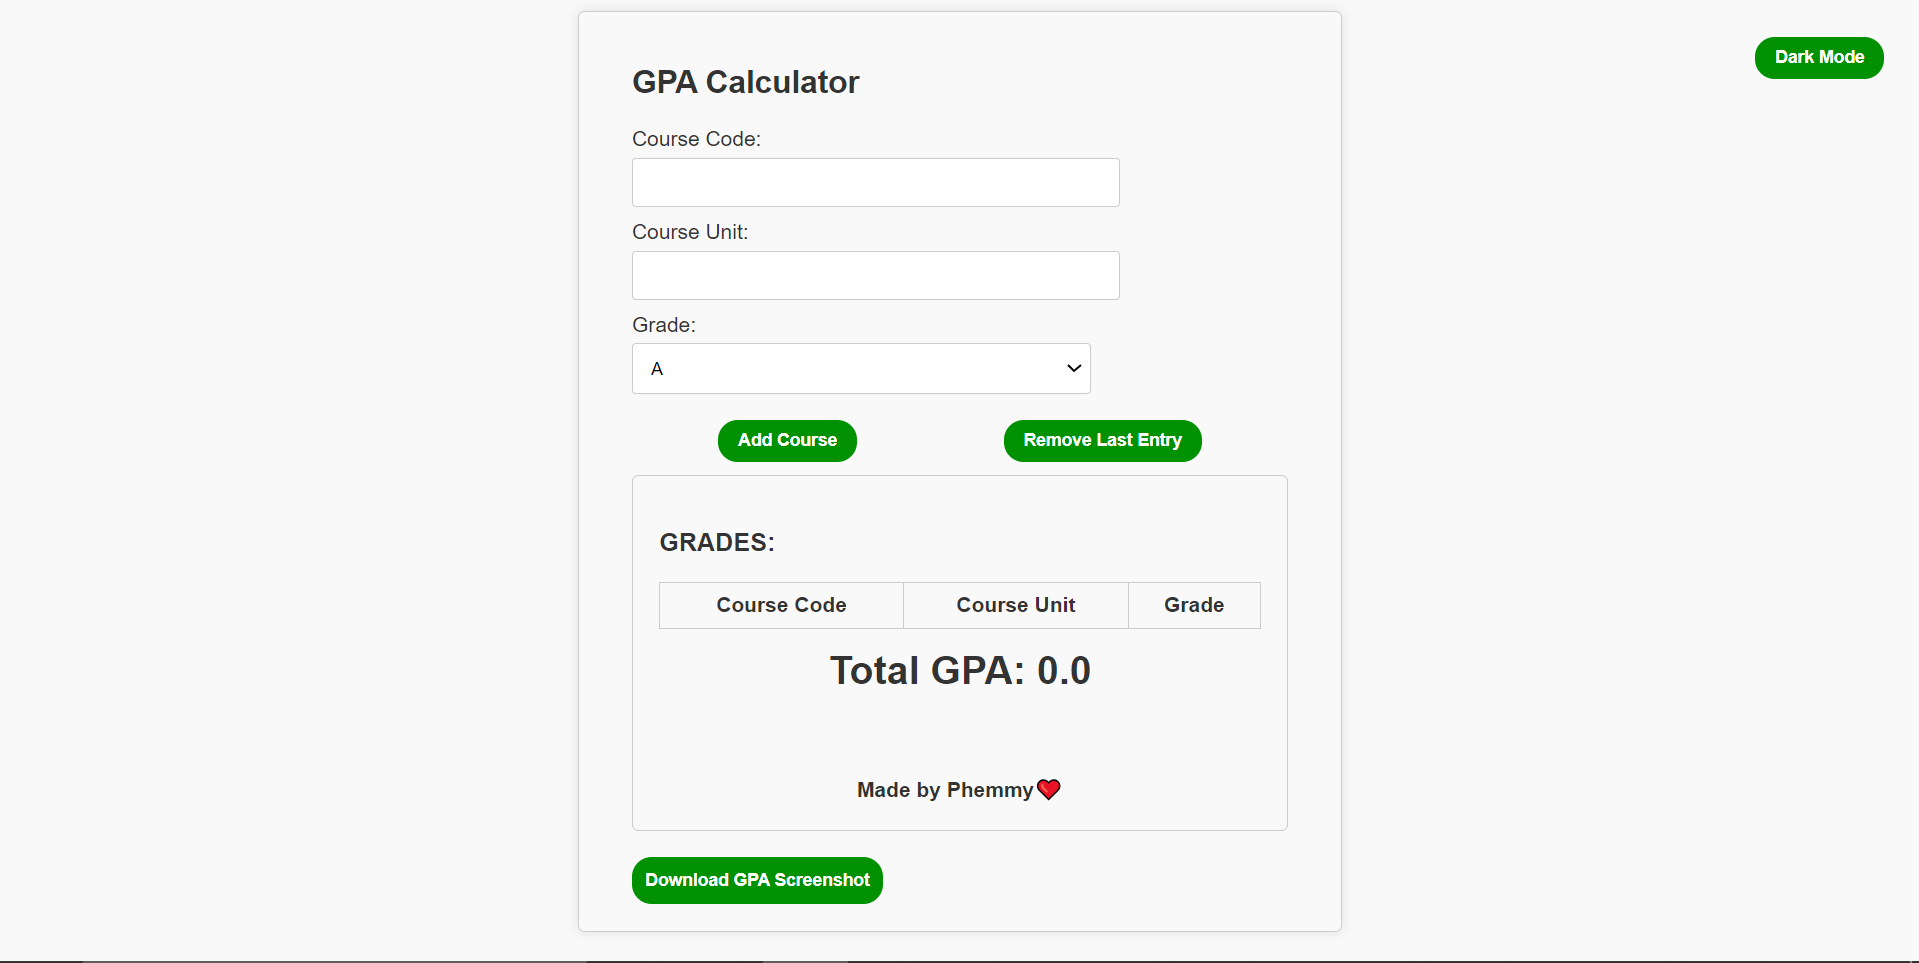
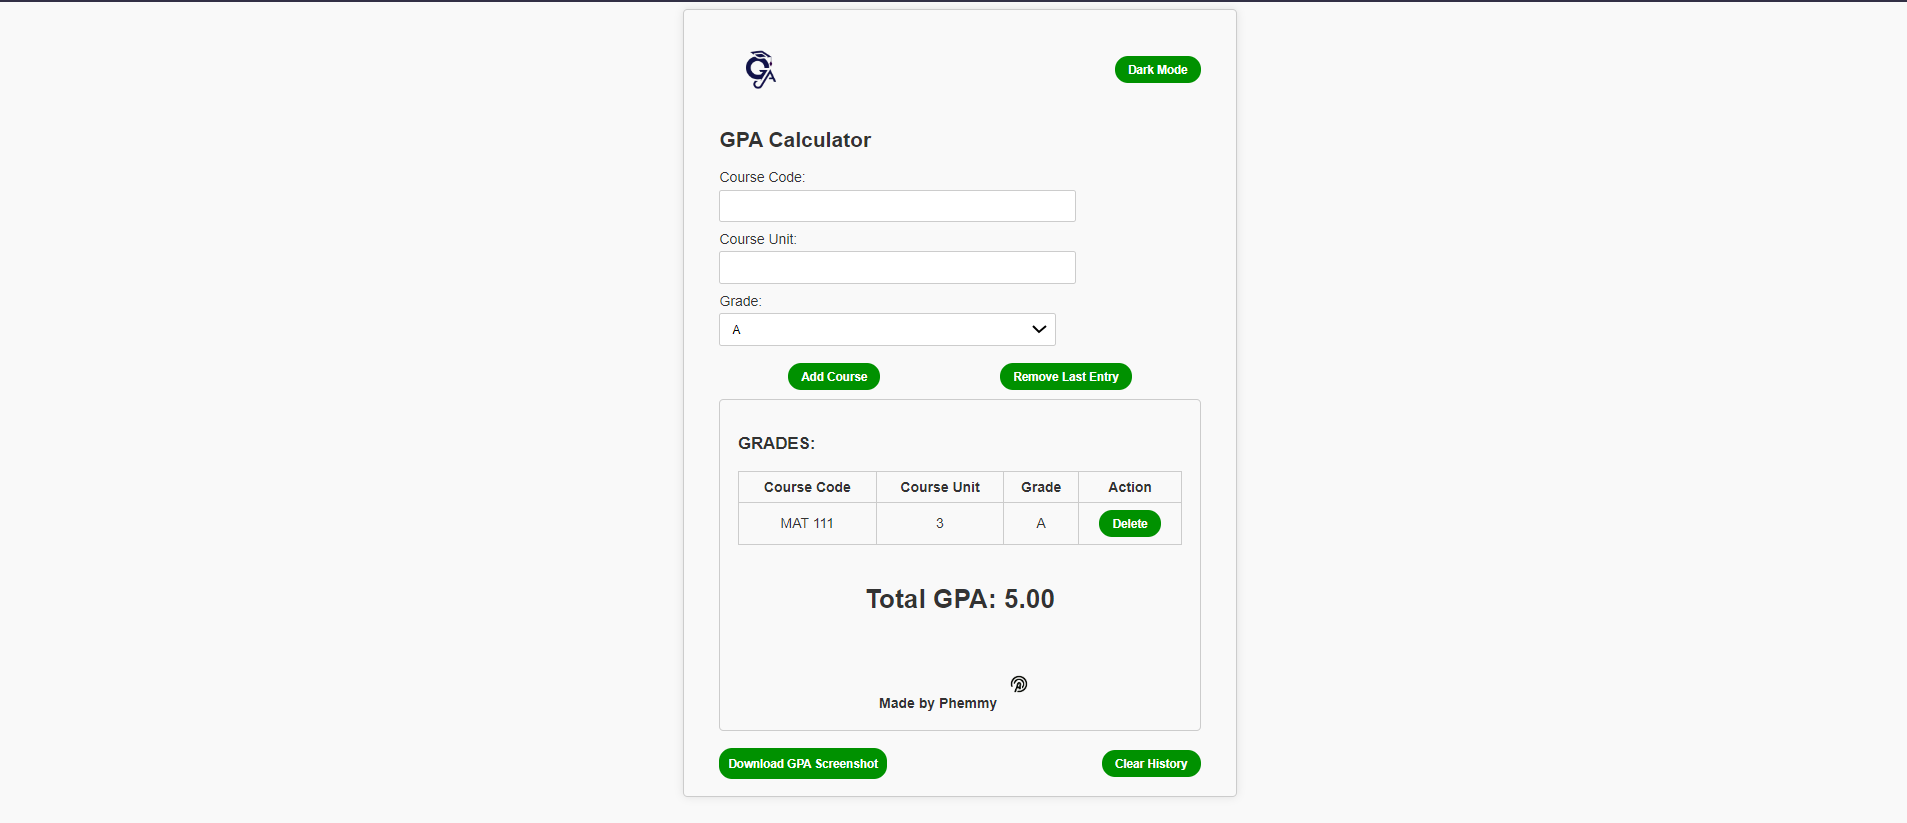
Added LocalStorage and action button

diff --git a/main.js b/main.js
@@ -12,6 +12,8 @@ const gpaResults = document.getElementById("gpa-results");
 const toggleModeButton = document.getElementById("toggle-mode");
 const body = document.body;
 const gpaScoreSummary = document.getElementById("gpaSummary");
+const clearHistoryButton = document.getElementById("clear-history");
+
 
 const grades = [];
 
@@ -39,18 +41,58 @@ removeLastButton.addEventListener("click", () => {
   }
 });
 
+
+function removeCourseAtIndex(index) {
+  if (index >= 0 && index < grades.length) {
+    grades.splice(index, 1);
+    updateGradeTable();
+    calculateGPA();
+  }
+}
+
+// function to convert numeric grade points to letter grades
+function numericToLetterGrade(numericGrade) {
+  // mapping of numeric grades to letter grades here
+  if (numericGrade >= 4.5) {
+    return "A";
+  } else if (numericGrade >= 3.5) {
+    return "B";
+  } else if (numericGrade >= 2.5) {
+    return "C";
+  } else if (numericGrade >= 1.5) {
+    return "D";
+  } else if (numericGrade >= 0.5) {
+    return "E";
+  } else {
+    return "F";
+  }
+}
+
+
 function updateGradeTable() {
   gradeTable.innerHTML = "";
-  grades.forEach((entry) => {
+  grades.forEach((entry, index) => {
     const row = gradeTable.insertRow();
     const cell1 = row.insertCell(0);
     const cell2 = row.insertCell(1);
     const cell3 = row.insertCell(2);
+    const cell4 = row.insertCell(3);
     cell1.textContent = entry.courseCode;
     cell2.textContent = entry.courseUnit;
-    cell3.textContent = entry.grade;
+    
+    // Displaying the letter grade instead of numeric grade
+    cell3.textContent = numericToLetterGrade(entry.grade);
+
+    //A button to create a delete button and add an event listener
+    const deleteButton = document.createElement("button");
+    deleteButton.textContent = "Delete";
+    deleteButton.addEventListener("click", () => {
+      removeCourseAtIndex(index);
+    });
+    cell4.appendChild(deleteButton);
   });
 }
+
 
 function calculateGPA() {
   if (grades.length === 0) {
@@ -68,7 +110,28 @@ function calculateGPA() {
 
   const gpa = (totalPoints / totalUnits).toFixed(2);
   totalGpa.textContent = gpa;
+
+  // Saving the grades to localStorage
+  localStorage.setItem("grades", JSON.stringify(grades));
 }
+
+// Retrieving grades from localStorage on page load
+const savedGrades = JSON.parse(localStorage.getItem("grades"));
+if (savedGrades) {
+  grades.push(...savedGrades); // Push saved grades into the grades array
+  updateGradeTable();
+  calculateGPA();
+}
+
+
+
+clearHistoryButton.addEventListener("click", () => {
+  localStorage.removeItem("grades"); // Clear the saved grades from localStorage
+  grades.length = 0; // Clear the grades array
+  updateGradeTable();
+  calculateGPA();
+});
+
 
 function clearForm() {
   courseCodeInput.value = "";
@@ -77,13 +140,11 @@ function clearForm() {
 }
 
 downloadScreenshotButton.addEventListener("click", () => {
-  // Preload any custom fonts (if applicable)
-  // Example: document.fonts.load('16px YourCustomFont');
 
-  // Use html2canvas with configuration to capture at a higher scale
+
   html2canvas(gpaResults, {
     scale: 4, // Increase the scale factor for better quality
-    useCORS: true, // Enable CORS for external resources (e.g., images from other domains)
+    useCORS: true,
   }).then((canvas) => {
     // Create an "a" element to trigger the download
     const a = document.createElement("a");
@@ -93,7 +154,7 @@ downloadScreenshotButton.addEventListener("click", () => {
   });
 });
 
-// Toggle mode when the button is clicked
+// Toggle button when the button is clicked
 toggleModeButton.addEventListener("click", () => {
   body.classList.toggle("dark-mode");
 
@@ -106,3 +167,5 @@ toggleModeButton.addEventListener("click", () => {
     toggleModeButton.textContent = "Dark Mode"; // Switch to Dark mode
   }
 });
+
+

diff --git a/index.html b/index.html
@@ -1,4 +1,3 @@
-
 <!DOCTYPE html>
 <html lang="en">
 <head>
@@ -54,6 +53,7 @@
                     <th>Course Code</th>
                     <th>Course Unit</th>
                     <th>Grade</th>
+                    <th>Action</th> <!-- New column for delete button -->
                 </tr>
             </thead>
             <tbody id="grade-table"></tbody>
@@ -69,7 +69,11 @@
         </div>
         
         </div>
-        <button id="download-screenshot" class="button">Download GPA Screenshot</button>
+        <div class="action-btns">
+            <button id="download-screenshot" class="button">Download GPA Screenshot</button>
+            <button id="clear-history">Clear History</button>
+        </div>
+
         
     </div>
 

diff --git a/styles.css b/styles.css
@@ -138,3 +138,9 @@ h4 {
     text-align: center;
     justify-content: center;
 }
+
+.action-btns{
+    display: flex;
+    justify-content: space-between;
+    align-items: center;
+}

diff --git a/README.md b/README.md
@@ -1,11 +1,14 @@
+
 # GPA Calculator
 
-This is a simple web-based GPA calculator that allows users to calculate their GPA for a semester and optionally save their results as an image. It also has a feature for light and dark mode.
+This is a web-based GPA calculator that allows users to calculate their GPA for a semester and optionally save their results as an image. It also features the ability to add and remove courses, a light and dark mode, and a history-clearing button.
 
 ## Table of Contents
 - [Features](#features)
 - [Demo](#demo)
 - [Screenshots](#screenshots)
+- [Usage](#usage)
+- [Clear History](#clear-history)
 - [Light and Dark Mode](#light-and-dark-mode)
 
 ## Features
@@ -14,22 +17,37 @@ This is a simple web-based GPA calculator that allows users to calculate their G
 - Add and remove courses from the calculation.
 - Option to download GPA results as an image for reference.
 - Toggle between light mode and dark mode for a personalized experience.
+- Save and load calculation history from browser storage.
+- Clear history to start fresh.
 
 ## Demo
 
-You can try the GPA Calculator here: [Demo](https://gpa-calculator1.netlify.app/) (Replace with your demo link if available)
+You can try the GPA Calculator here: [Demo Link](https://gpa-calculator1.netlify.app/)
 
 ## Screenshots
 
 ![GPA Calculator Screenshot](screenshot.png)
 
+## Usage
+
+1. Enter your course code, course unit, and grade.
+2. Click the "Add Grade" button to add the course to the calculation.
+3. Repeat the above steps for each course.
+4. Your GPA will be displayed in the "Total GPA" section.
+5. Optionally, click the "Download Screenshot" button to save your GPA results as an image.
+
+## Clear History
+
+To clear your calculation history:
+
+1. Click the "Clear History" button.
+2. This action will remove all saved calculation history from your browser.
 
 ## Light and Dark Mode
-Click the "Toggle Mode" button to switch between light mode and dark mode.
-In light mode, the background is light, and the text is dark.
-In dark mode, the background is dark, and the text is light.
 
-
+- Click the different modes button to switch between light mode and dark mode.
+- In light mode, the background is light, and the text is dark.
+- In dark mode, the background is dark, and the text is light.
 
 
 
